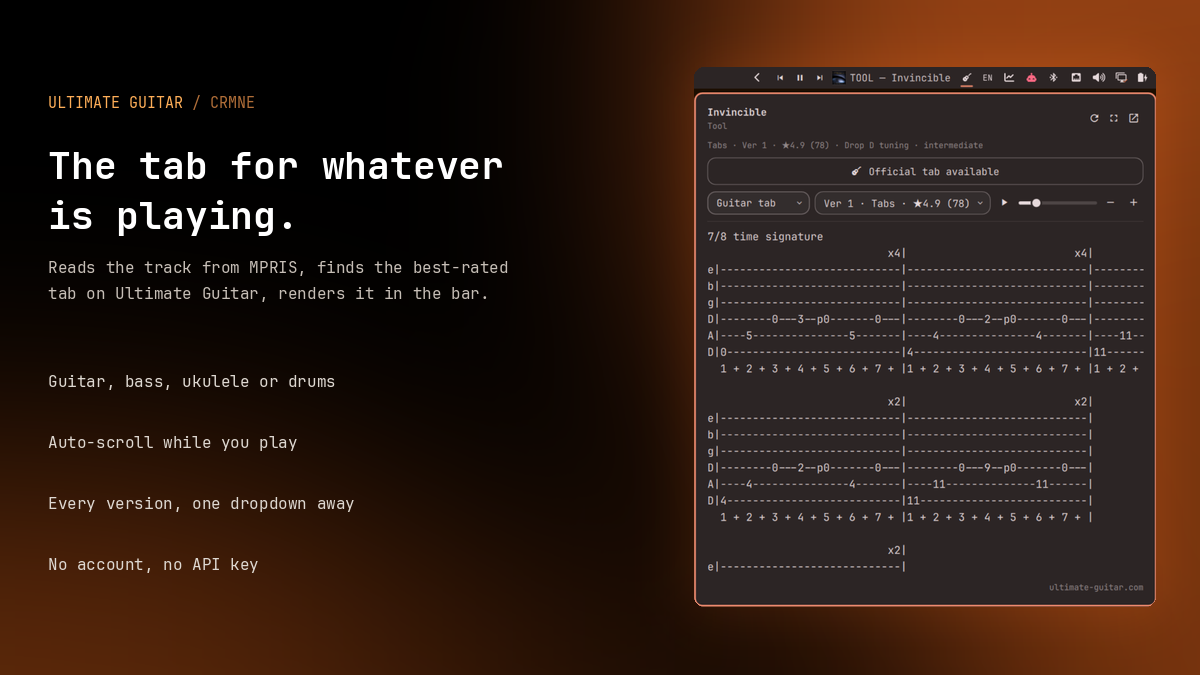
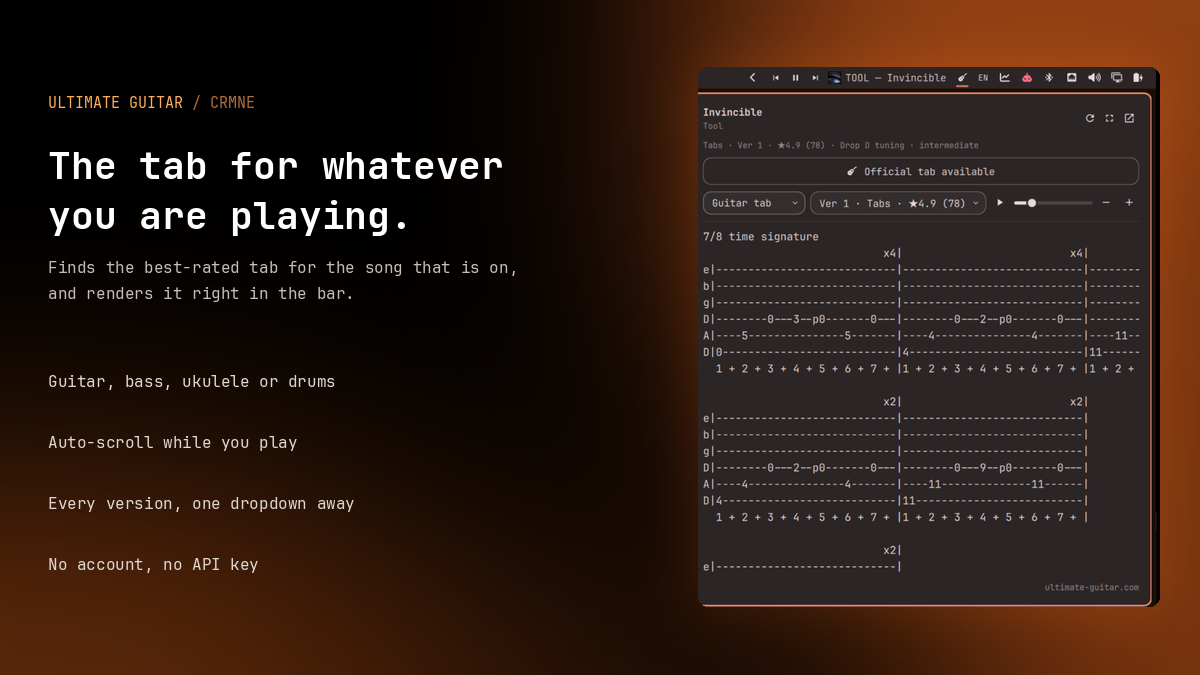
Drop the jargon from anything a user reads
MPRIS is the name of a desktop protocol, not something a person looking for
a tab reader knows or cares about. The listing, the readme and the preview
card now say the plugin picks up whatever you are playing. It survives only
in the requirements line, where naming the protocol is the useful part of
the sentence.

The title stays as it is: Ultimate Guitar Tabs says exactly what it is.

diff --git a/README.md b/README.md
@@ -2,7 +2,7 @@
 
 Whatever is playing, its tab is one click away in the bar.
 
-The widget reads the current track from MPRIS, finds the best-rated tab for it
+The widget picks up whatever you are playing, finds the best-rated tab for it
 on Ultimate Guitar, and renders it right in the shell: chords colored, columns
 aligned, with auto-scroll for when both your hands are on the guitar.
 
@@ -32,7 +32,8 @@ omarchy bar move crmne.ultimate-guitar --section right --before omarchy.tray
 ## Requirements
 
 - Omarchy Quattro with its Quickshell-based shell.
-- Any media player exposing the standard MPRIS interface.
+- Any media player that tells the desktop what it is playing (the standard
+  MPRIS interface, which nearly all of them speak).
 - `/usr/bin/python3` for the fetch helper. No extra packages, no account.
 
 ## Using it
